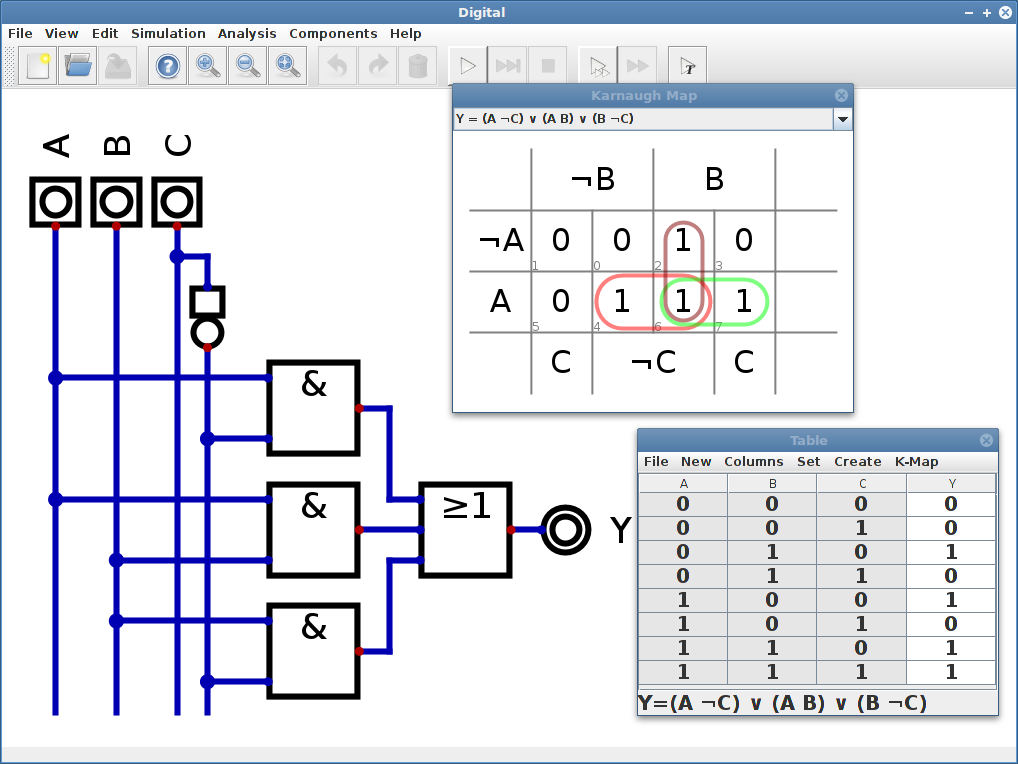
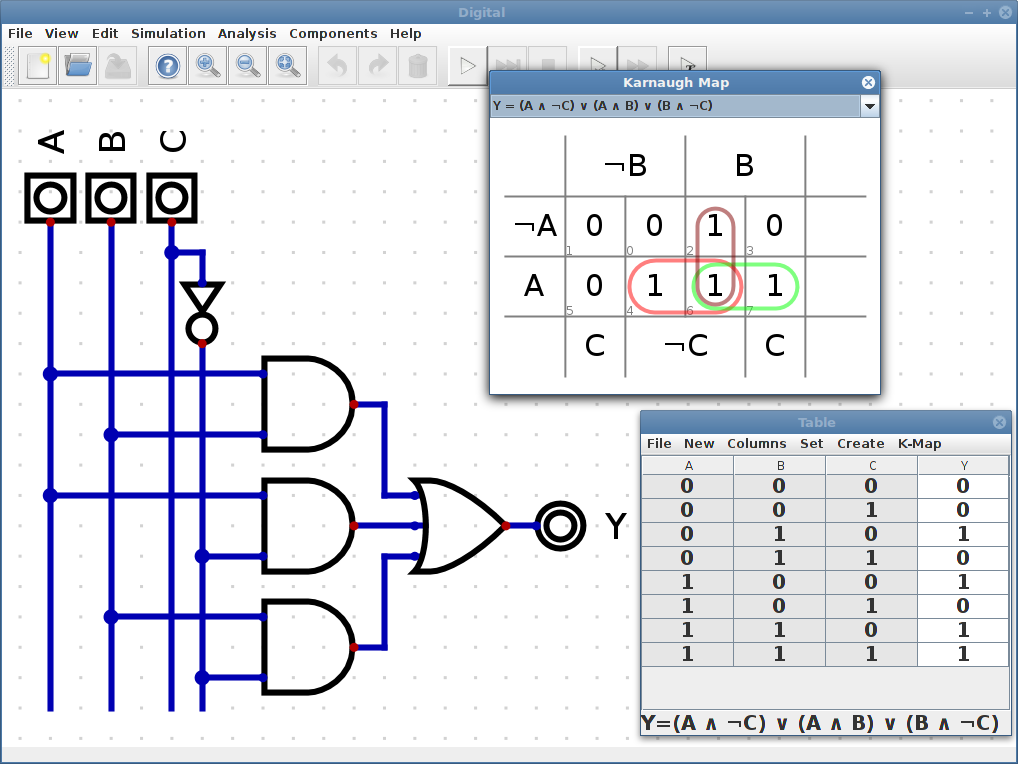
updated the screenshot

diff --git a/src/test/java/de/neemann/digital/docu/ScreenShots.java b/src/test/java/de/neemann/digital/docu/ScreenShots.java
@@ -1,7 +1,10 @@
 package de.neemann.digital.docu;
 
+import de.neemann.digital.core.element.Keys;
 import de.neemann.digital.gui.Main;
+import de.neemann.digital.gui.Settings;
 import de.neemann.digital.gui.components.AttributeDialog;
+import de.neemann.digital.gui.components.expression.ExpressionDialog;
 import de.neemann.digital.gui.components.graphics.GraphicDialog;
 import de.neemann.digital.gui.components.karnaugh.KarnaughMapDialog;
 import de.neemann.digital.gui.components.table.TableDialog;
@@ -41,6 +44,7 @@ public class ScreenShots {
 
     private static void mainScreenShot() {
         Lang.setActualRuntimeLanguage(new Language("en"));
+        Settings.getInstance().getAttributes().set(Keys.SETTINGS_IEEE_SHAPES,true);
         new GuiTester("../../main/dig/processor/Processor.dig", "examples/processor/Processor.dig")
                 .press(' ')
                 .delay(500)
@@ -54,7 +58,50 @@ public class ScreenShots {
                 .add((gt) -> graphic.dispose())
                 .delay(500)
                 .press("F1")
-                .add(new MainScreenShot())
+                .add(new MainScreenShot("screenshot.png"))
+                .execute();
+        new GuiTester()
+                .press("F10")
+                .press("RIGHT", 4)
+                .press("DOWN", 3)
+                .press("ENTER")
+                .delay(500)
+                .press("control typed a")
+                .type("A B + B !C + A !C")
+                .add(new GuiTester.SetFocusTo<>(ExpressionDialog.class,
+                        comp -> comp instanceof JButton && ((JButton) comp).getText().equals(Lang.get("btn_create"))))
+                .press("SPACE")
+                .delay(500)
+                .press("control typed -", 1)
+                .add(new GuiTester.WindowCheck<>(Main.class,
+                        (gt, main) -> main.getCircuitComponent().translateCircuit(-120, 0)))
+                .delay(500)
+                .press("F9")
+                .delay(500)
+                .add(new GuiTester.WindowCheck<>(TableDialog.class, (gt, td) -> {
+                    td.getContentPane().setPreferredSize(new Dimension(370, 280));
+                    td.pack();
+                    final Point location = td.getParent().getLocation();
+                    location.x += 640;
+                    location.y += 410;
+                    td.setLocation(location);
+                }))
+                .delay(500)
+                .press("F1")
+                .delay(500)
+                .add(new GuiTester.WindowCheck<>(KarnaughMapDialog.class, (gt, td) -> {
+                    final Point location = td.getParent().getLocation();
+                    location.x -= 150;
+                    location.y -= 340;
+                    td.setLocation(location);
+                    td.getContentPane().setPreferredSize(new Dimension(390, 300));
+                    td.pack();
+                }))
+                .delay(500)
+                .add(new MainScreenShot("screenshot2.png"))
+                .add(new GuiTester.CloseTopMost())
+                .add(new GuiTester.CloseTopMost())
+                .add(new GuiTester.CloseTopMost())
                 .execute();
     }
 
@@ -229,16 +276,25 @@ public class ScreenShots {
     }
 
 
-    private static class MainScreenShot extends GuiTester.WindowCheck<Main> {
+    private static class MainScreenShot implements GuiTester.Runnable {
 
-        MainScreenShot() {
-            super(Main.class);
+        private final String name;
+
+        MainScreenShot(String name) {
+            this.name = name;
         }
 
         @Override
-        public void checkWindow(GuiTester guiTester, Main main) throws Exception {
+        public void run(GuiTester guiTester) throws Exception {
+            Window main = FocusManager.getCurrentManager().getActiveWindow();
+            while (!(main instanceof Main)) {
+                main = (Window) main.getParent();
+                if (main == null)
+                    throw new RuntimeException("Main not found!");
+            }
+
             BufferedImage image = guiTester.getRobot().createScreenCapture(main.getBounds());
-            File file = new File(Resources.getRoot(), "../../../screenshot.png");
+            File file = new File(Resources.getRoot().getParentFile().getParentFile().getParentFile(), name);
             ImageIO.write(image, "png", file);
         }
     }

diff --git a/src/main/java/de/neemann/digital/gui/components/CircuitComponent.java b/src/main/java/de/neemann/digital/gui/components/CircuitComponent.java
@@ -965,6 +965,18 @@ public class CircuitComponent extends JComponent implements Circuit.ChangedListe
         repaintNeeded();
     }
 
+    /**
+     * Translates the circuit.
+     *
+     * @param dx x movement
+     * @param dy y movement
+     */
+    public void translateCircuit(int dx, int dy) {
+        transform.translate(dx, dy);
+        isManualScale = true;
+        repaintNeeded();
+    }
+
     private void editAttributes(VisualElement element, MouseEvent e) {
         String name = element.getElementName();
         try {

diff --git a/src/test/java/de/neemann/digital/integration/GuiTester.java b/src/test/java/de/neemann/digital/integration/GuiTester.java
@@ -103,6 +103,9 @@ public class GuiTester {
                     case '/':
                         gt.keyType(KeyEvent.VK_SHIFT, KeyEvent.VK_7);
                         break;
+                    case '!':
+                        gt.keyType(KeyEvent.VK_SHIFT, KeyEvent.VK_1);
+                        break;
                     case '~':
                         gt.keyType(KeyEvent.VK_CONTROL, KeyEvent.VK_ALT, KeyEvent.VK_PLUS);
                         break;

diff --git a/README.md b/README.md
@@ -17,7 +17,7 @@ If you are familiar with Logisim you will recognize the wire color scheme.
 Logisim is an excellent and proven tool for teaching purposes. Unfortunately, Carl Burch discontinued the development of 
 Logisim in 2014. Instead he has started the development of a new simulator called [Toves](http://www.toves.org/). 
 In his [blog](http://www.toves.org/blog/) he explained why he decided to develop a new simulator instead of improving Logisim. 
-In short: There are weaknesses in Logisims architecture which are hard to overcome.
+In short: There are weaknesses in Logisims architecture which are too difficult to overcome.
 Unfortunately, the development of Toves was discontinued at a very early stage.
 
 Carl Burch has released Logisim as open source so there are a number of forks to continue the work on Logisim:
@@ -33,7 +33,7 @@ for example, a VHDL/Verilog export was added.
 
 So I decided to implement a new simulator completely from scratch and started the implementation of Digital in march 2016.
 In the meantime a development level has been reached which is at least comparable to Logisim.
-In some areas (performance, testing of circuits, analysis, hardware support) Logisim was exceeded.
+In some areas (performance, testing of circuits, circuit analysis, hardware support) Logisim has already been exceeded.
   
 ## Features ##
 
